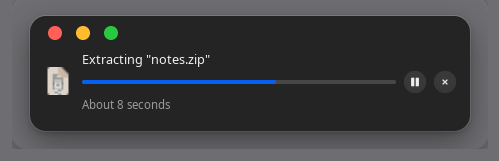
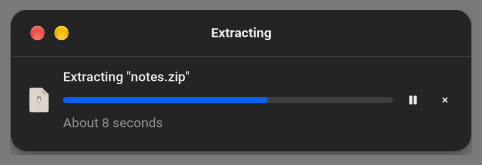
Update the README and screenshots for the themed windows

diff --git a/README.md b/README.md
@@ -19,11 +19,13 @@ It is the Elavo desktop's archiver. The colours, type, corner radii, and control
 - Each format is created only when its tool is installed or built in. A missing tool is a grey row with “Install … to create …” and the same sentence if you try anyway.
 - Password for 7Z and ZIP. 7-Zip is told `-p` with no password and reads the password from its prompt on standard input, so the password is not an argument. `unar` reads its prompt from the terminal, so Archive Utility types it on a private pseudoterminal. The password is never saved.
 - ZIP can use AES-256 when a password is set. 7Z can also encrypt file names (Preferences).
-- Level has six stops. The method line reads No compression, Fastest, less compression, Fast, less compression, Normal, Slow, more compression, or Slowest, more compression. Store, Fast, Normal, and Slow label stops 1, 2, 4, and 6; stops 3 and 5 are dots. Split is empty for one file. A size you type (`5 MB`, `700MB`, `1.5 GB`, `512 KB`, or a bare byte count) or a preset from the menu sets the part size. Preset bytes: floppy 1,457,664; 650 MB CD 681,574,400; 700 MB CD 734,003,200; DVD-5 4,700,372,992; DVD-9 8,543,666,176; BD-25 25,025,314,816; BD-50 50,050,629,632; BD-XL 100,103,356,416; FAT32 4,294,967,295.
+- Level has six stops. The line above the slider reads No compression, Fastest, less compression, Fast, less compression, Normal compression, Slow, more compression, or Slowest, more compression. The ends of the slider are labelled No compression and Slowest, more compression. Split is empty for one file. A size you type (`5 MB`, `700MB`, `1.5 GB`, `512 KB`, or a bare byte count) or a preset from the menu sets the part size. Preset bytes: floppy 1,457,664; 650 MB CD 681,574,400; 700 MB CD 734,003,200; DVD-5 4,700,372,992; DVD-9 8,543,666,176; BD-25 25,025,314,816; BD-50 50,050,629,632; BD-XL 100,103,356,416; FAT32 4,294,967,295.
 - Exclude Mac resource forks (`.DS_Store`, `._*`, `__MACOSX`), verify the archive after writing it, delete the originals after a successful archive, and archive each item separately. These are remembered per format.
 - A progress view with Cancel, and a preferences window for where archives go, the new-folder rule, name conflicts, and opening the folder when finished.
 - A `.desktop` file and MIME types so a file manager can offer Archive Utility under Open With. Opening an archive that way, or starting Archive Utility with archive paths, shows a progress window instead of the main window: one row per archive, extracted beside the archive (or into the folder from Preferences). A second open adds a row to the same window. The window closes when every archive has finished; an error stays on its row. Launching with no files still opens the main window.
-- Progress bars, the level slider, checks, and selection use the system accent from the settings portal, or Elavo's accent file when that is present. Elavo blue (`#0860f2`) is the fallback.
+- Windows, dialogs, title bars, colors, and the accent all come from the GTK theme, like Elavo Files and System Settings. Archive Utility's stylesheet only sets layout. The accent follows `--accent-bg-color`, which Elavo's `elavo-accent.css` points at the accent chosen in System Settings.
+- Gzip, XZ, Bzip2, and the other single-stream formats have no password; the field is off for them and says why.
+- Archive icons use the theme's MIME icons (for example `application-x-7z-compressed`), with `package-x-generic` as the fallback.
 
 ![Format menu](docs/screenshots/formats.png)
 
